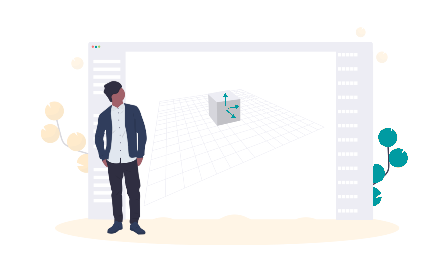
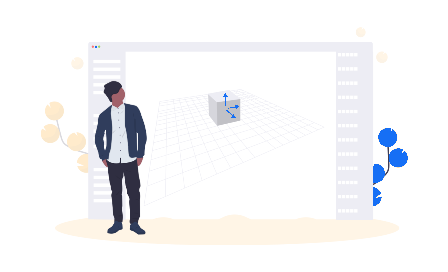
latest theme & ablout sec added

Changed region(s): [[0.8125, 0.4706, 0.9062, 0.7647], [0.5, 0.3824, 0.5312, 0.4412]]

diff --git a/public/css/style.css b/public/css/style.css
@@ -4,14 +4,16 @@
   --red: #d64041;
   /* --bg-primary-pattern-one:  linear-gradient(90deg, #ff9d00 50%, #ffffff 50%);
   --bg-primary-pattern-two:  linear-gradient(90deg, #ffffff 50%, #ff9d00 50%); */
-  --bg-primary-pattern-one:  linear-gradient(90deg, #16ebf5 50%, #ffffff 50%);
-  --bg-primary-pattern-two:  linear-gradient(90deg, #ffffff 50%, #16ebf5 50%);
+  --bg-primary-pattern-one:  linear-gradient(90deg, #166ff5 50%, #ffffff 50%);
+  --bg-primary-pattern-two:  linear-gradient(90deg, #ffffff 50%, #166ff5 50%);
 
 }
 .text-warning {
-  color: #00c5cf!important;
+  color: #166ff5!important;
 }
-
+.navbar-light .navbar-nav .nav-link {
+  color: #fff;
+}
 html {
   scroll-behavior: smooth;
   /* font-size: 62.5%;  */
@@ -21,7 +23,6 @@ html {
 }
 body {
   font-family: "Roboto", "Lato", sans-serif;
-  /* font-size: 1.6rem; */
   line-height: 1.5;
   margin: 0;
   scroll-behavior: smooth;
@@ -58,14 +59,14 @@ p {
   color: white;
 }
 
-.header-colorpalette,.header-neumorphism{
+.header-lineargradient,.header-neumorphism{
   position: relative;
   text-align: center;
   background: var(--bg-primary-pattern-two);
 
   color: white;
 }
-.header-lineargradient {
+.header-colorpalette{
   background: var(--bg-primary-pattern-one);
 }
 
@@ -84,12 +85,12 @@ nav {
 .header .inner-header:first-child ,
 .colorPalette .inner-header,
 .neumorphism .inner-header,
+.about .inner-header,
 .linearGradient .inner-header{
   margin-top: 3rem;
 }
 .header .inner-header:first-child {
   background: var(--bg-primary-pattern-one);
-
  }
 .flex {
   /*Flexbox for containers*/
@@ -213,7 +214,7 @@ footer {
 }
 
 
-.colorPalette,.neumorphism,.linearGradient{ 
+.colorPalette,.neumorphism,.linearGradient,.about{ 
   background: var(--bg-primary-pattern-one);
 }
 
@@ -316,7 +317,7 @@ background: white;
 #copy {
   position: relative;
   box-sizing: border-box;
-  background-color: #ff9900;
+  background-color: #31c6eb;
   color: #ffffff;
   font-size: 1rem;
   font-weight: 500;
@@ -462,11 +463,12 @@ h6 figcaption {
   left: -5rem;
   color: #0c0c0c;
 }
+
 .btn-toggle:after {
   content: 'random';
   right: -5rem;
   opacity: 0.5;
-  color: #ff9000;
+  color: #166ff5;
 }
 .btn-toggle > .inner-handle {
   border-radius: 13px;
@@ -479,7 +481,7 @@ h6 figcaption {
   box-shadow: inset 1px 1px 2px -1px black;
 }
 .btn-toggle.active > .inner-handle {
-  background-color: #eb9a31;
+  background-color: #31b0eb;
 }
 .btn-toggle > .handle:before {
   content: "";
@@ -493,7 +495,7 @@ h6 figcaption {
   background-repeat: no-repeat;
 }
 .btn-toggle.active > .handle:before {
-  background-image: radial-gradient(circle at center, #ff9000 5px, transparent 5px);
+  background-image: radial-gradient(circle at center, #166ff5 5px, transparent 5px);
 }
 .btn-toggle > .handle {
   position: absolute;
@@ -509,19 +511,23 @@ h6 figcaption {
 .btn-toggle.active {
   transition: background-color 0.25s;
 }
+
 .btn-toggle.active > .handle {
   left: 2.4175rem;
   transition: left 0.25s;
 }
+
 .btn-toggle.active:before {
   opacity: 0.5;
 }
+
 .btn-toggle.active:after {
   opacity: 1;
-  color: #ff9000;
+  color: #166ff5;
 }
+
 .btn-toggle.active {
-  background-color: #ff9000;
+  background-color: #166ff5;
 }
 .fixed-middle-right{
   position: fixed;
@@ -531,7 +537,9 @@ h6 figcaption {
 }
 /*Shrinking for mobile*/
 @media (max-width: 768px) {
-
+  .box-wrapper {
+    height: 50vh;
+  }
 .display-4{
 font-size: 2rem ;
 }
@@ -586,9 +594,9 @@ font-size: 2rem ;
 }
 
 .home-banner {
-  margin: 2rem 0;
-  padding: 1rem;
-  border: 0.75rem solid #454545;
+  margin: 2rem;
+  padding: 3rem;
+  border: 1.25rem solid #454545;
   /* border-radius: 2rem; */
 }
   .waves {
@@ -605,6 +613,11 @@ font-size: 2rem ;
     height: 40vh;
     width: 40vh;
   }
+  .navbar-light .navbar-nav .nav-link {
+    color: #166ff5;
+}
+
+
 }
 /* #content-desktop {display: block;} */
 #content-mobile {display: none;}
@@ -659,13 +672,13 @@ font-size: 2rem ;
     /* border-radius: 50%; */
     /* width: 50em;
     height: 50em; */
-    /* width: 70vh;
-    height: 70vh;  */
+    width: 70vh;
+    height: 50vh; 
 }
 .loader {   
     margin: 1rem auto;
     top:23%;
-    left:33%;
+    left:40%;
     position: absolute;
     transform: translate(-33%);
     font-size: 10px;

diff --git a/public/js/colorPalette.js b/public/js/colorPalette.js
@@ -258,11 +258,6 @@ function renderCards(colorData) {
   document.querySelector(".card-group.socialPalette").innerHTML = returnData;
 }
 function customPalette() {
-  let grid1ColorCode = document.querySelector(".grid1ColorCode");
-  let grid2ColorCode = document.querySelector(".grid2ColorCode");
-  let grid3ColorCode = document.querySelector(".grid3ColorCode");
-  let grid4ColorCode = document.querySelector(".grid4ColorCode");
-
   document.querySelector(
     "#randomPaletteGenarator"
   ).innerHTML = `       <div class="card shadow">
@@ -274,15 +269,15 @@ function customPalette() {
                   <h6 class="g4" onclick="showPicker(this)"> </h6>
                 </div>
                 <div class="card-footer ">
-                <button class="btn btn-dark float-right mx-2" onclick="savePalette('random')" title="Save Palette"> save</button> 
-                  <button class="btn btn-secondary float-right" onclick="customPalette()" title="Genarate Palette">Generate <i class="fa fa-random "></i></button>
+                <button class="btn btn-dark float-right mx-2" onclick="savePalette('random')" title="Save Palette"><i class="fa fa-save"></i>  save</button> 
+                  <button class="btn btn-secondary float-right" onclick="customPalette()" title="Genarate Palette"><i class="fa fa-random "></i> Generate </button>
                   </div>
                 </div>`;
                 
  var lighten2Color = `${getRandomColorInHEXFormat()}`;
-  let setg1Color= `${getShadesOfColor(lighten2Color, -40)}`;
+  let setg1Color= `${getShadesOfColor(lighten2Color, -80)}`;
   var lighten3Color =getShadesOfColor(lighten2Color, 40);
-  var lighten4Color = getShadesOfColor(lighten2Color, 70) ;
+  var lighten4Color = invertColor(setg1Color) ;
   // let colorstoptwo= `${invertColor(lighten2Color)}`;
 
   // var lighten2Color = getShadesOfColorjust(setg1Color, 20) ;
@@ -311,16 +306,6 @@ function customPalette() {
   g2.innerHTML = setg2Color;
   g3.innerHTML = setg3Color;
   g4.innerHTML = setg4Color;
-  // g1.style.backgroundColor = grid1ColorCode.innerHTML;
-  // g2.style.backgroundColor = grid2ColorCode.innerHTML;
-  // g3.style.backgroundColor = grid3ColorCode.innerHTML;
-  // g4.style.backgroundColor = grid4ColorCode.innerHTML;
-  
-
-  // g1.innerHTML = grid1ColorCode.innerHTML;
-  // g2.innerHTML = grid2ColorCode.innerHTML;
-  // g3.innerHTML = grid3ColorCode.innerHTML;
-  // g4.innerHTML = grid4ColorCode.innerHTML;
 }
 
 function downloadImage(obj, name) {
@@ -413,7 +398,7 @@ function savePalette(type) {
       id: Date.now(),
       createdAt: Date.now(),
       isLiked: false,
-      likes: 1,
+      likes: 0,
       hex: {
         layer1: layer1.innerHTML,
         layer2: layer2.innerHTML,

diff --git a/public/js/script.js b/public/js/script.js
@@ -1,21 +1,25 @@
 
 // const copyButton = document.getElementById("copy");
 // const textButton = document.querySelector(".copycss");
+
 function renderLoader(ms) {
-  $('body').append('<div style="z-index:10000;position:Fixed;height:100vh;" id="loadingDiv"><img src="/images/loading.png" class="loader" alt="loader"/><div > </div></div>');
+  $('body').append('<div style="z-index:10000;position:Fixed;height:100vh;" id="loadingDiv"><img src="/images/loader.png" class="loader" alt="loader"/><div > </div></div>');
   setTimeout(removeLoader, ms); 
 }
 function removeLoader(){
   $( "#loadingDiv").remove(); 
 }
+// const navbarNav = document.querySelector("#navbarNav ul li.nav-item");
+// navbarNav.addEventListener("click",  renderLoader(700));
 
 $(document).ready(function() {
+ 
+  // renderLoader(700)
   var path = window.location.pathname,pages;
-  renderLoader(700);
   
 
   var pathname = path.split('/')[1];
-  pages = ['home', 'neumorphism', 'lineargradient','colorpalette'];
+  pages = ['home', 'neumorphism', 'lineargradient','colorpalette','about'];
   if (pathname==='') {
      document.querySelector('li.nav-item').classList.add("active");
   } else {

diff --git a/server.js b/server.js
@@ -38,12 +38,15 @@ app.get("/home", function(req, res,next) {
 app.get("/neumorphism", function(req, res) {
     res.render("./partials/neumorphism/neumorphism");
 });
+app.get("/colorpalette", function(req, res) {
+    res.render("./partials/colorPalette/colorPalette");
+});
 app.get("/lineargradient", function(req, res) {
     res.render("./partials/linearGradient/linearGradient");
 });
 
-app.get("/colorpalette", function(req, res) {
-    res.render("./partials/colorPalette/colorPalette");
+app.get("/about", function(req, res) {
+    res.render("./partials/about/about");
 });
 
 app.get("/custompalette", function(req, res) {
